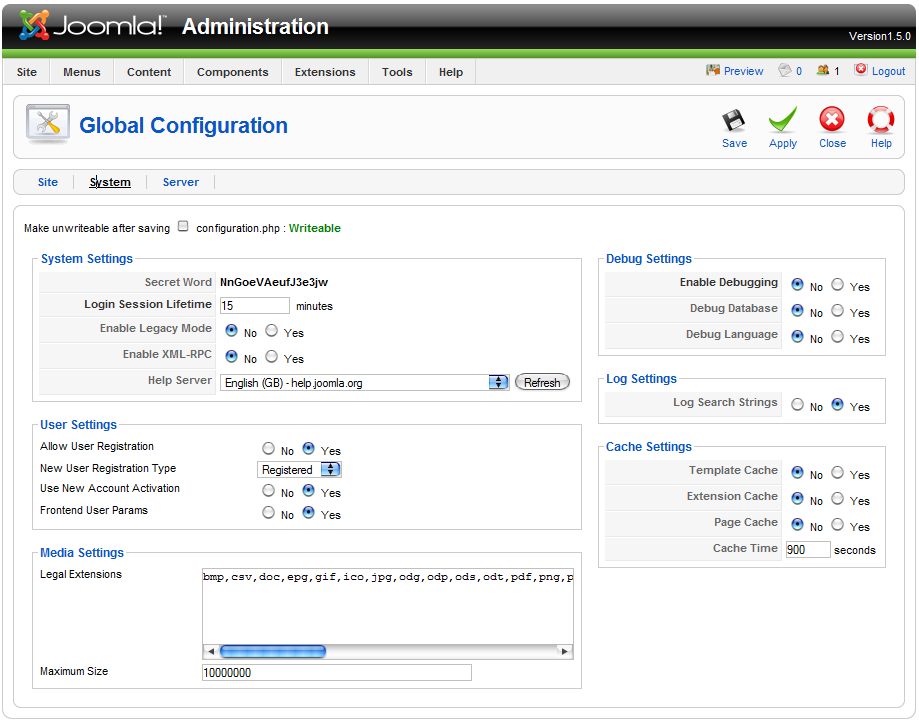
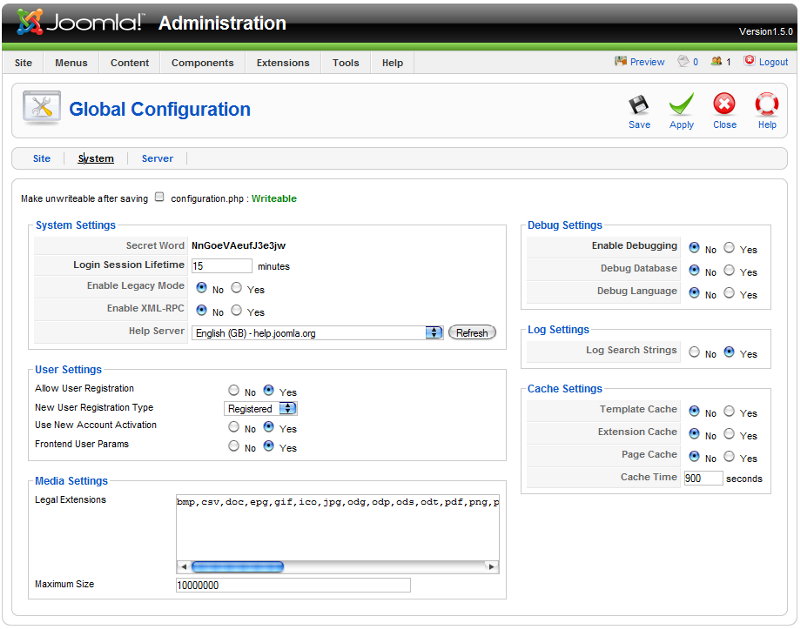
s/w des and screenshot update

diff --git a/trunk/disctree/en/openoffice.html b/trunk/disctree/en/openoffice.html
@@ -19,10 +19,10 @@
 <div id="inst_text">ติดตั้ง</div>
 </a>
 <div id="screen_shot_block"><a
- href="javascript:ScreenShot(1024,768,'../app_img/openoffice_01.png');"><img
+ href="javascript:ScreenShot(800,600,'../app_img/openoffice_01.png');"><img
  src="../app_img/openoffice_01_tn.png" /></a><br />
 <a
- href="javascript:ScreenShot(1023,768,'../app_img/openoffice_02.png');">
+ href="javascript:ScreenShot(800,600,'../app_img/openoffice_02.png');">
 <img src="../app_img/openoffice_02_tn.png" /></a></div>
 <a href="javascript:history.go(-1)">
 <div id="nav_text">หน้าหลัก</div>

diff --git a/trunk/disctree/en/tuxpaint.html b/trunk/disctree/en/tuxpaint.html
@@ -18,9 +18,9 @@
 <div id="inst_text">ติดตั้ง</div>
 </a>
 <div id="screen_shot_block"><a
- href="javascript:ScreenShot(806,642,'../app_img/tuxpaint_01.png');"><img
+ href="javascript:ScreenShot(800,637,'../app_img/tuxpaint_01.png');"><img
  src="../app_img/tuxpaint_01_tn.png" /></a><br />
-<a href="javascript:ScreenShot(806,642,'../app_img/tuxpaint_02.png');">
+<a href="javascript:ScreenShot(800,637,'../app_img/tuxpaint_02.png');">
 <img src="../app_img/tuxpaint_02_tn.png" /></a></div>
 <a href="javascript:history.go(-1)">
 <div id="nav_text">หน้าหลัก</div>

diff --git a/trunk/disctree/en/joomla.html b/trunk/disctree/en/joomla.html
@@ -18,9 +18,9 @@
 <div id="inst_text">ติดตั้ง</div>
 </a>
 <div id="screen_shot_block"><a
- href="javascript:ScreenShot(795,600,'../app_img/joomla_01.png');"><img
+ href="javascript:ScreenShot(800,575,'../app_img/joomla_01.png');"><img
  src="../app_img/joomla_01_tn.png" /></a><br />
-<a href="javascript:ScreenShot(795,600,'../app_img/joomla_02.png');">
+<a href="javascript:ScreenShot(800,629,'../app_img/joomla_02.png');">
 <img src="../app_img/joomla_02_tn.png" /></a></div>
 <a href="javascript:history.go(-1)">
 <div id="nav_text">หน้าหลัก</div>

diff --git a/trunk/disctree/en/putty.html b/trunk/disctree/en/putty.html
@@ -18,9 +18,9 @@
 <div id="inst_text">ติดตั้ง</div>
 </a>
 <div id="screen_shot_block"><a
- href="javascript:ScreenShot(795,600,'../app_img/putty_01.png');"><img
+ href="javascript:ScreenShot(456,442,'../app_img/putty_01.png');"><img
  src="../app_img/putty_01_tn.png" /></a><br />
-<a href="javascript:ScreenShot(795,600,'../app_img/putty_02.png');">
+<a href="javascript:ScreenShot(800,493,'../app_img/putty_02.png');">
 <img src="../app_img/putty_02_tn.png" /></a></div>
 <a href="javascript:history.go(-1)">
 <div id="nav_text">หน้าหลัก</div>

diff --git a/trunk/disctree/en/infrarecorder.html b/trunk/disctree/en/infrarecorder.html
@@ -20,7 +20,7 @@
 <div id="screen_shot_block"><a
  href="javascript:ScreenShot(500,400,'../app_img/infrarecorder_01.png');"><img
  src="../app_img/infrarecorder_01_tn.png" /></a><br />
-<a href="javascript:ScreenShot(872,613,'../app_img/infrarecorder_02.png');">
+<a href="javascript:ScreenShot(800,562,'../app_img/infrarecorder_02.png');">
 <img src="../app_img/infrarecorder_02_tn.png" /></a></div>
 <a href="javascript:history.go(-1)">
 <div id="nav_text">หน้าหลัก</div>
